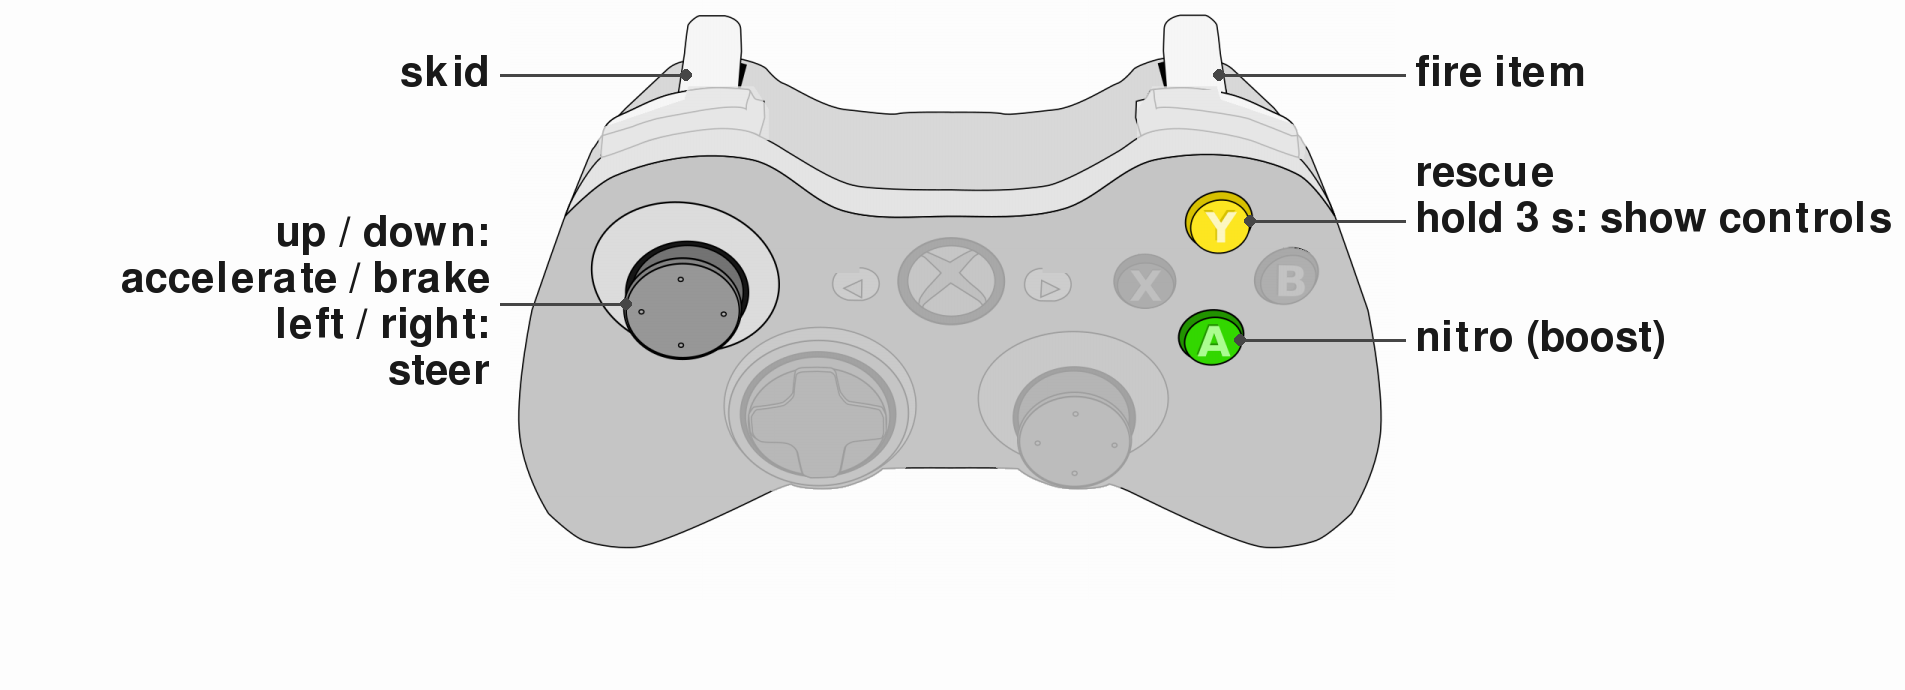
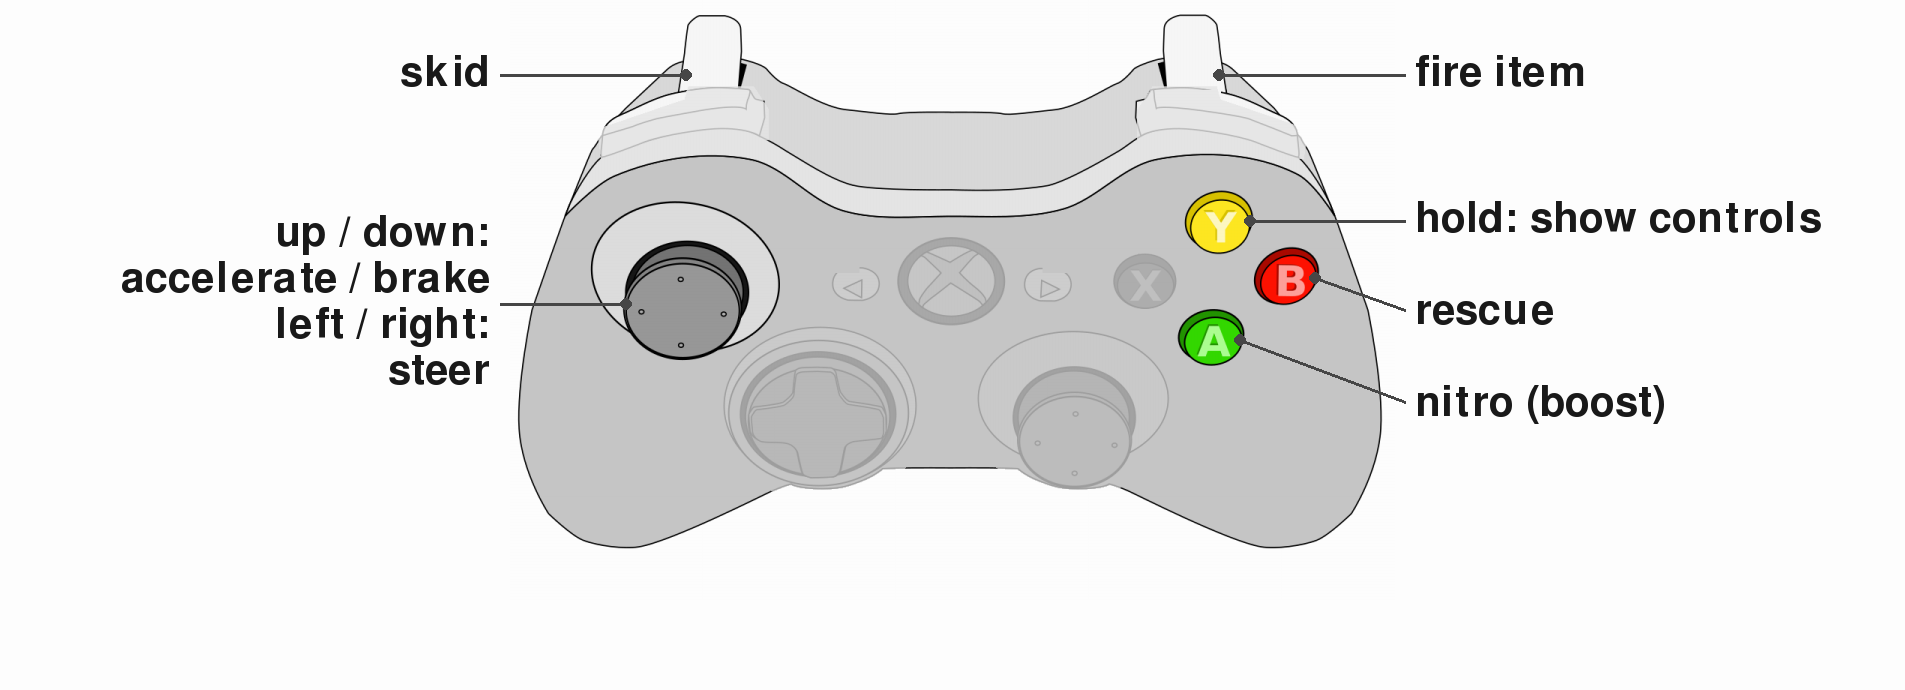
Y shows the STK controls at once; rescue is B on a controller
Y was rescue as well as the hint in stk-GMPD3-stick-nav, so its hint
needed a 3 s hold. B was free on both pads; rescue moves there, and Y opens
the hint at a press in both controller versions.

diff --git a/configs/curricula/stk/common/README.md b/configs/curricula/stk/common/README.md
@@ -12,7 +12,7 @@ There is one curriculum per race track the package ships. Its other track names 
 
 ## Keys
 
-Every phase states its `action_mode`, which the adapter hands to the env; `stk.json` and `stk-GMPD3-stick-nav.json` play `"keys"`. With it, the env's action is MultiBinary(8) over SuperTuxKart's keys: 0=left, 1=right, 2=up (accelerate), 3=down (brake / reverse), 4=nitro, 5=skid, 6=fire, 7=rescue. Held keys combine, and the game's own player controller turns them into controls. `stk.json` maps them to the rig's ten keys (arrows, X nitro, C skid, SPACE fire, Z rescue), and `stk-GMPD3-stick-nav.json` to a controller's stick (up accelerates, down brakes), RT fire, LT skid, A nitro and Y rescue; keep each shared phase's Controls text in sync by hand.
+Every phase states its `action_mode`, which the adapter hands to the env; `stk.json` and `stk-GMPD3-stick-nav.json` play `"keys"`. With it, the env's action is MultiBinary(8) over SuperTuxKart's keys: 0=left, 1=right, 2=up (accelerate), 3=down (brake / reverse), 4=nitro, 5=skid, 6=fire, 7=rescue. Held keys combine, and the game's own player controller turns them into controls. `stk.json` maps them to the rig's ten keys (arrows, X nitro, C skid, SPACE fire, Z rescue), and `stk-GMPD3-stick-nav.json` to a controller's stick (up accelerates, down brakes), RT fire, LT skid, A nitro and B rescue; in both controller versions, Y shows the controls image for as long as it is held; keep each shared phase's Controls text in sync by hand.
 
 `stk-GMPD3-stick-nav-analog.json` sets `"action_mode": "continuous_full"`: the action is Box(5) of the kart's controls, 0=steer (-1 left .. 1 right), 1=accelerate (0..1), 2=brake, 3=nitro, 4=skid (each on above 0.5), which the env sets directly, past the game's player controller (no steering ramp). The stick's x axis is the steering, its up side the throttle and its down side the brake (past half its travel), LT skid and A nitro. The env has no fire or rescue in this mode, so this version has neither.
 
